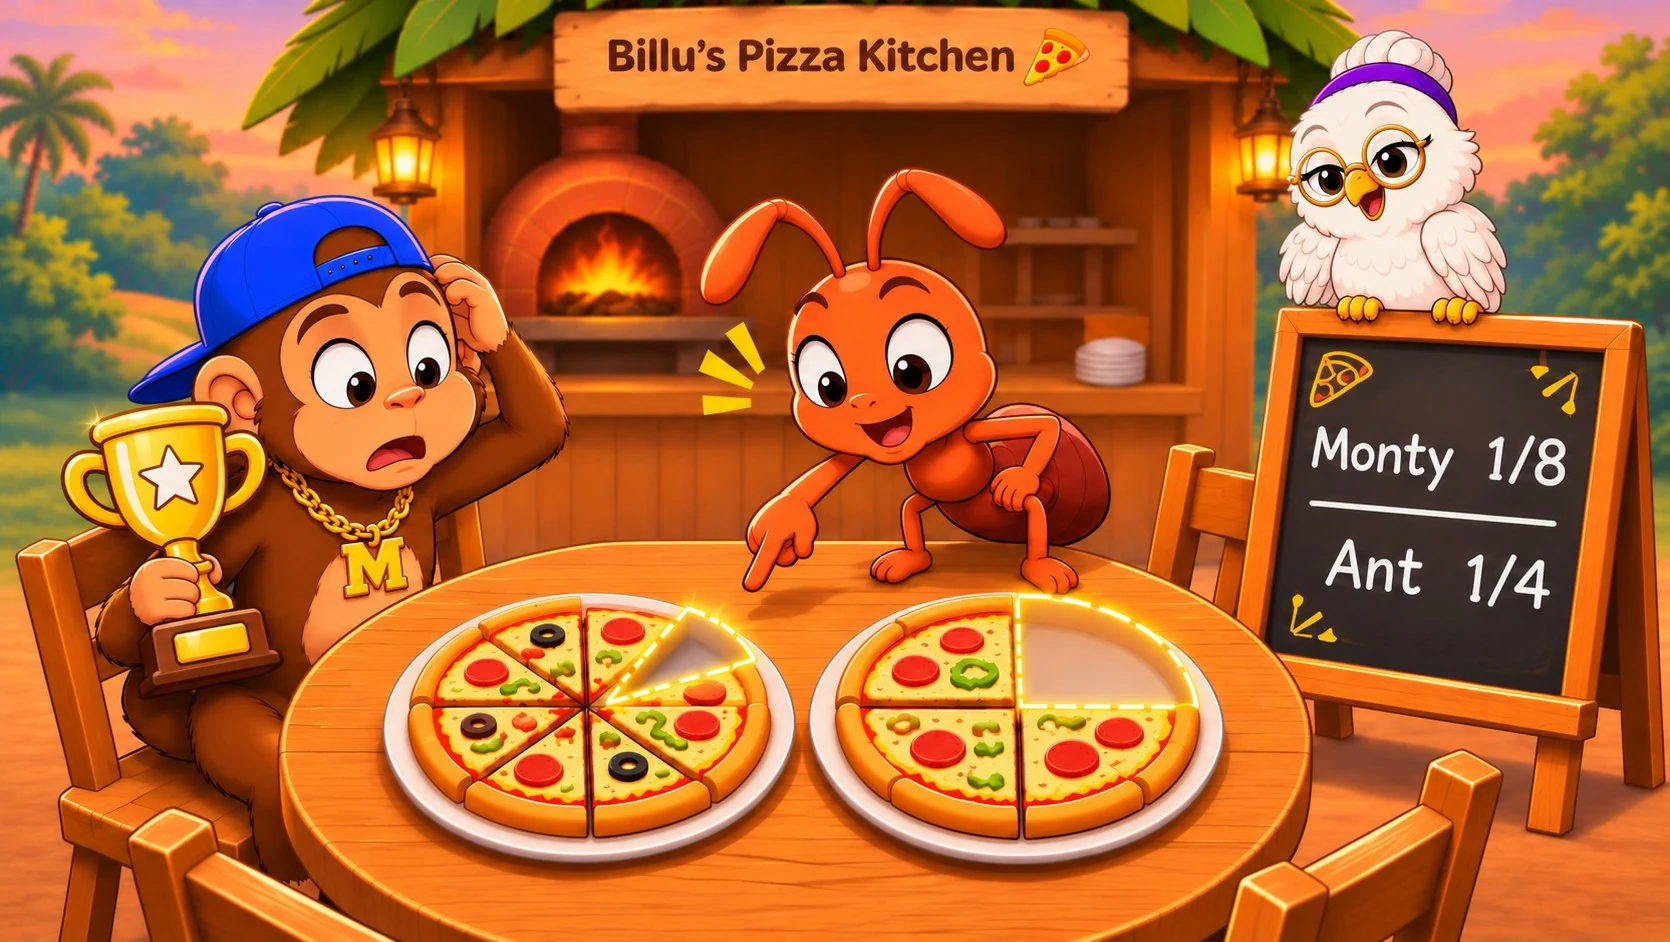
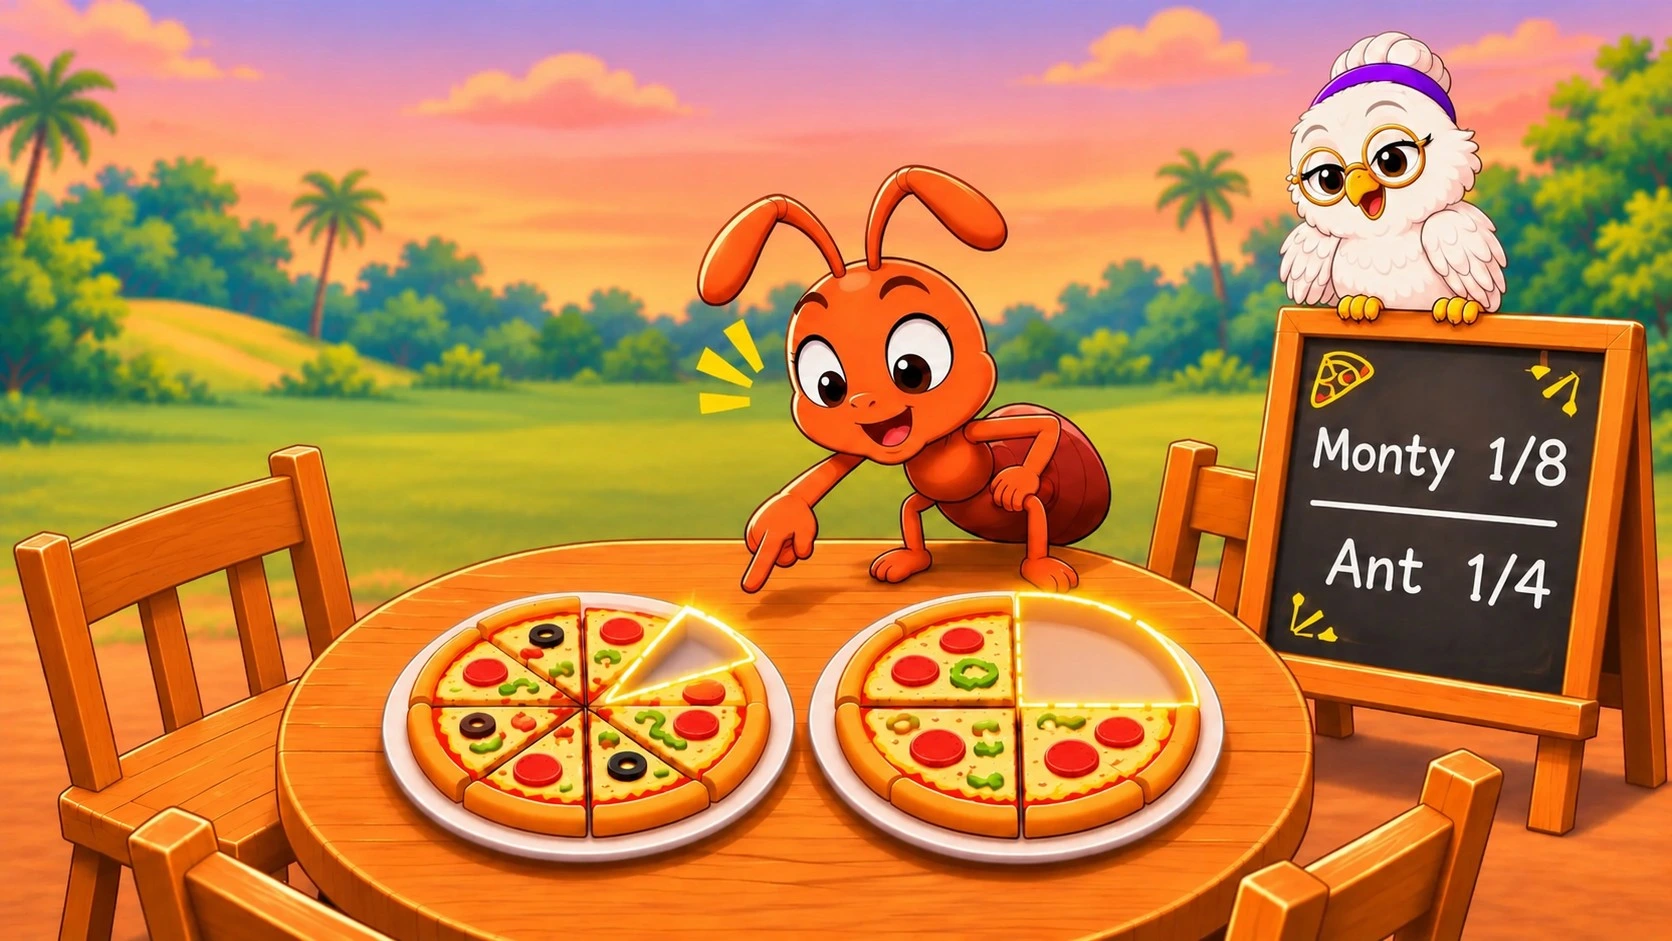
Level 2 story scene 4: the supplied picture (the ant pointing at the plates, Noori on the scoreboard) replaces the old one; the ant's and Noori's bubbles placed for it

diff --git a/src/level2.html b/src/level2.html
@@ -2834,8 +2834,8 @@ async function storyContext2(){
   await say("billu",[47,15,22,40],"8 is bigger than 4, so Monty wins!"); keep.forEach(a=>a.remove());
   // 4. the ant points at the plates (the empty space on hers is bigger); Noori beside the scoreboard
   sc=await next(sc,"assets/story/l2_scene4.webp");
-  await say("ant",[45,18,17,36],"Wait! Look at our plates!");
-  await say("noori",[77,6,13,28],"Let’s find out who really ate more!");
+  await say("ant",[42,17,24,34],"Wait! Look at our plates!");
+  await say("noori",[77,2,14,30],"Let’s find out who really ate more!");
 }
 /* ---------- wiring ---------- */
 $("guide").addEventListener("click",()=>speak(S.sayPlain));
